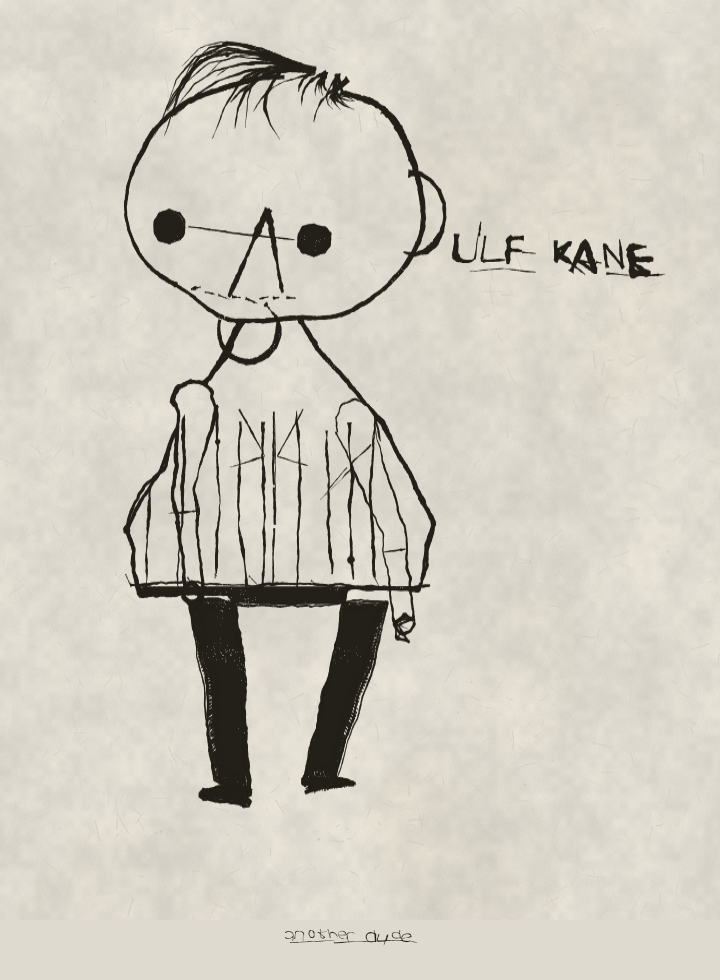
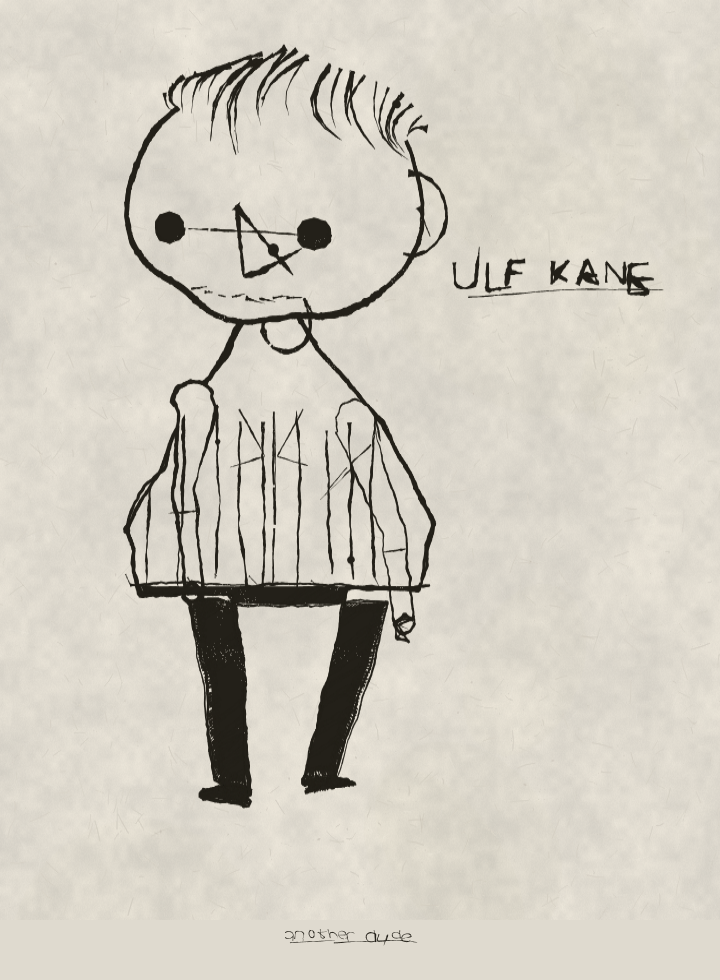
Gauntlet: black masses built from strokes
Filling a polygon and roughening its boundary leaves a smooth slab with a
ragged edge, which is not the same thing as a mass a pen laid down. Large
masses now carry directional strokes through the interior at a per-mass
angle, so the black has structure in it rather than only at its edge.

Claude-Session: https://claude.ai/code/session_01RJWY9ufwnD6fjwW6ve4one

diff --git a/dude.js b/dude.js
@@ -364,7 +364,44 @@
     c.fill();
     c.restore();
 
-    const per = polyLen(pts.concat([pts[0]]));
+    // A mass a pen laid down has strokes in it. Filling a polygon and
+    // roughening the boundary leaves a smooth slab with a ragged edge, which
+    // is not the same thing at all.
+    let x0 = Infinity;
+    let y0 = Infinity;
+    let x1 = -Infinity;
+    let y1 = -Infinity;
+    for (const q of pts) {
+      if (q.x < x0) x0 = q.x;
+      if (q.x > x1) x1 = q.x;
+      if (q.y < y0) y0 = q.y;
+      if (q.y > y1) y1 = q.y;
+    }
+    const area = (x1 - x0) * (y1 - y0);
+    if (area > 900) {
+      c.save();
+      c.beginPath();
+      inset.forEach((q, i) => (i ? c.lineTo(q.x, q.y) : c.moveTo(q.x, q.y)));
+      c.closePath();
+      c.clip();
+      const ang = rng.f(0, Math.PI);
+      const dx = Math.cos(ang);
+      const dy = Math.sin(ang);
+      const span = Math.hypot(x1 - x0, y1 - y0);
+      const lines = Math.max(4, Math.round(span / (bite * rng.f(1.1, 2.2))));
+      for (let i = 0; i < lines; i++) {
+        const t = (i / (lines - 1 || 1) - 0.5) * span;
+        const mx = (x0 + x1) / 2 - dy * t;
+        const my = (y0 + y1) / 2 + dx * t;
+        const half = span * rng.f(0.3, 0.6);
+        nib(c, rng, [
+          { x: mx - dx * half, y: my - dy * half },
+          { x: mx + dx * half * rng.f(0.6, 1.0), y: my + dy * half * rng.f(0.6, 1.0) },
+        ], { w: bite * rng.f(0.5, 1.1), color, dry: 0.7, wobble: bite * 0.5, alpha: opt.alpha ?? 1 });
+      }
+      c.restore();
+    }
+
     const step = Math.max(1.6, bite * 0.55);
     const walk = resample(pts.concat([pts[0]]), step);
     for (let i = 0; i < walk.length; i++) {
